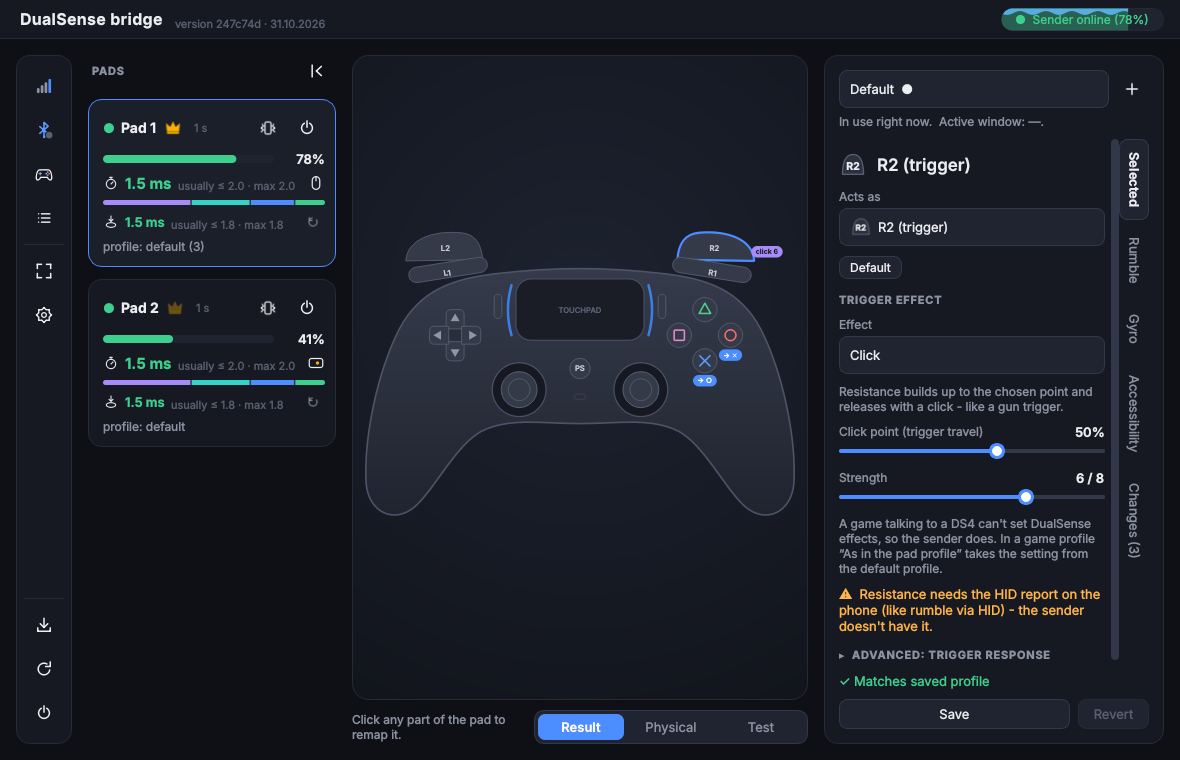
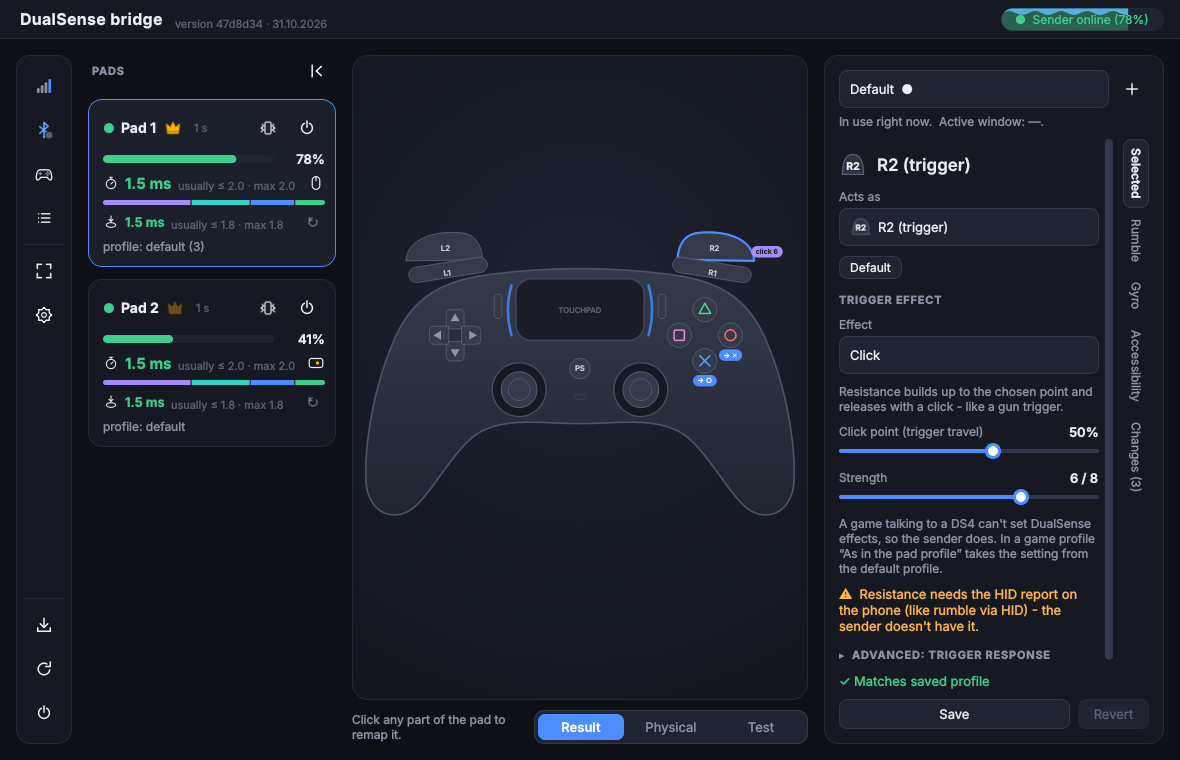
Receiver: tighter vertical editor tabs, gap to the options
The tabs were stretched over the whole column height and touched the options on their left. They are packed at the top now,
with a smaller gap and font, and a 10 px margin towards the content.

diff --git a/receiver/rx_qt.py b/receiver/rx_qt.py
@@ -737,7 +737,7 @@ class MainWindow(ScreenPlacement):
         self.access_scroll = scrolled(self.access_page)
         self.tabs = QTabWidget()
         self.tabs.setTabPosition(QTabWidget.TabPosition.East)       # vertical tabs on the right edge of the column
-        self.tabs.tabBar().setExpanding(True)
+        self.tabs.tabBar().setExpanding(False)                       # packed at the top, not stretched over the whole height
         self.tabs.tabBar().setDrawBase(False)
         for page, name in ((self.part_page, _("Wybrane")), (self.rumble_page, _("Wibracje")), (self.gyro_page, _("Gyro")),
                            (self.access_scroll, _("Dostępność")), (self.changes_page, _("Zmiany"))):

diff --git a/receiver/rx_qt_style.py b/receiver/rx_qt_style.py
@@ -138,7 +138,7 @@ QTabWidget::pane {{ border: none; }}
 QTabBar {{ background: transparent; }}
 QTabBar::tab {{ background: transparent; color: {DIM}; padding: {p(6)} {p(12)}; margin-right: {p(4)}; border-radius: {p(8)};
                border: 1px solid transparent; }}
-QTabBar::tab:right {{ margin-right: 0; margin-bottom: {p(4)}; padding: {p(12)} {p(6)}; }}
+QTabBar::tab:right {{ margin: 0 0 {p(2)} {p(10)}; padding: {p(8)} {p(4)}; font-size: {p(12)}; }}
 QTabBar::tab:hover {{ color: {FG}; background: {TRACK}; }}
 QTabBar::tab:selected {{ background: {TRACK}; color: {FG}; border-color: {LINE}; font-weight: 600; }}
 
